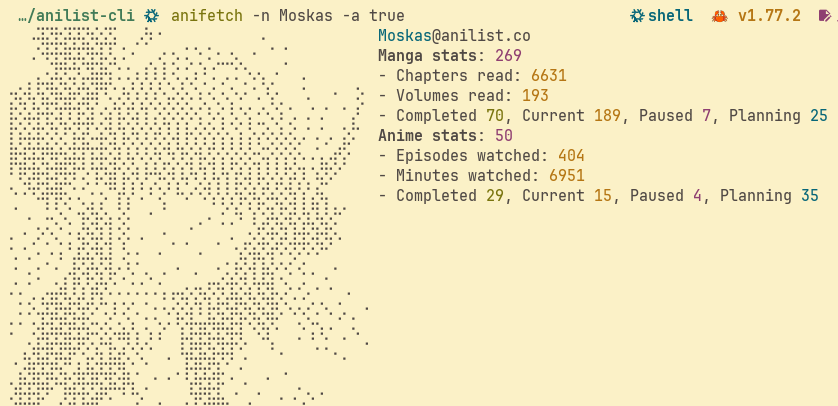
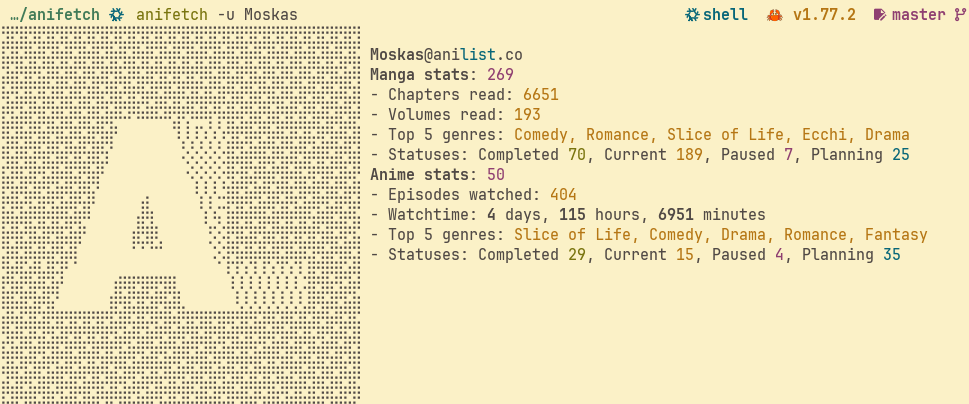
Dependency bump, updated preview

Changed region(s): [[0.0, 0.0, 0.9928, 1.0], [0.6826, 0.0, 1.0, 0.0594]]

diff --git a/src/main.rs b/src/main.rs
@@ -141,7 +141,11 @@ async fn main() {
   }
 
   //println!("{:#?}", response_data.data);
-  let user = format!("{}@anilist.co", response_data.data.user.name.blue());
+  let user = format!(
+    "{}@ani{}.co",
+    response_data.data.user.name.bold(),
+    "list".blue()
+  );
   let manga_stats = format!(
     "{}: {}",
     "Manga stats".to_string().bold(),

diff --git a/src/cli.rs b/src/cli.rs
@@ -54,7 +54,10 @@ pub fn load_ascii() -> String {
   } else {
     match std::fs::read_to_string(args.custom_ascii.unwrap()) {
       Ok(content) => content,
-      _ => default_ascii,
+      _ => {
+        println!("Could not find the specified file, falling back to default ascii art");
+        default_ascii
+      }
     }
   }
 }
